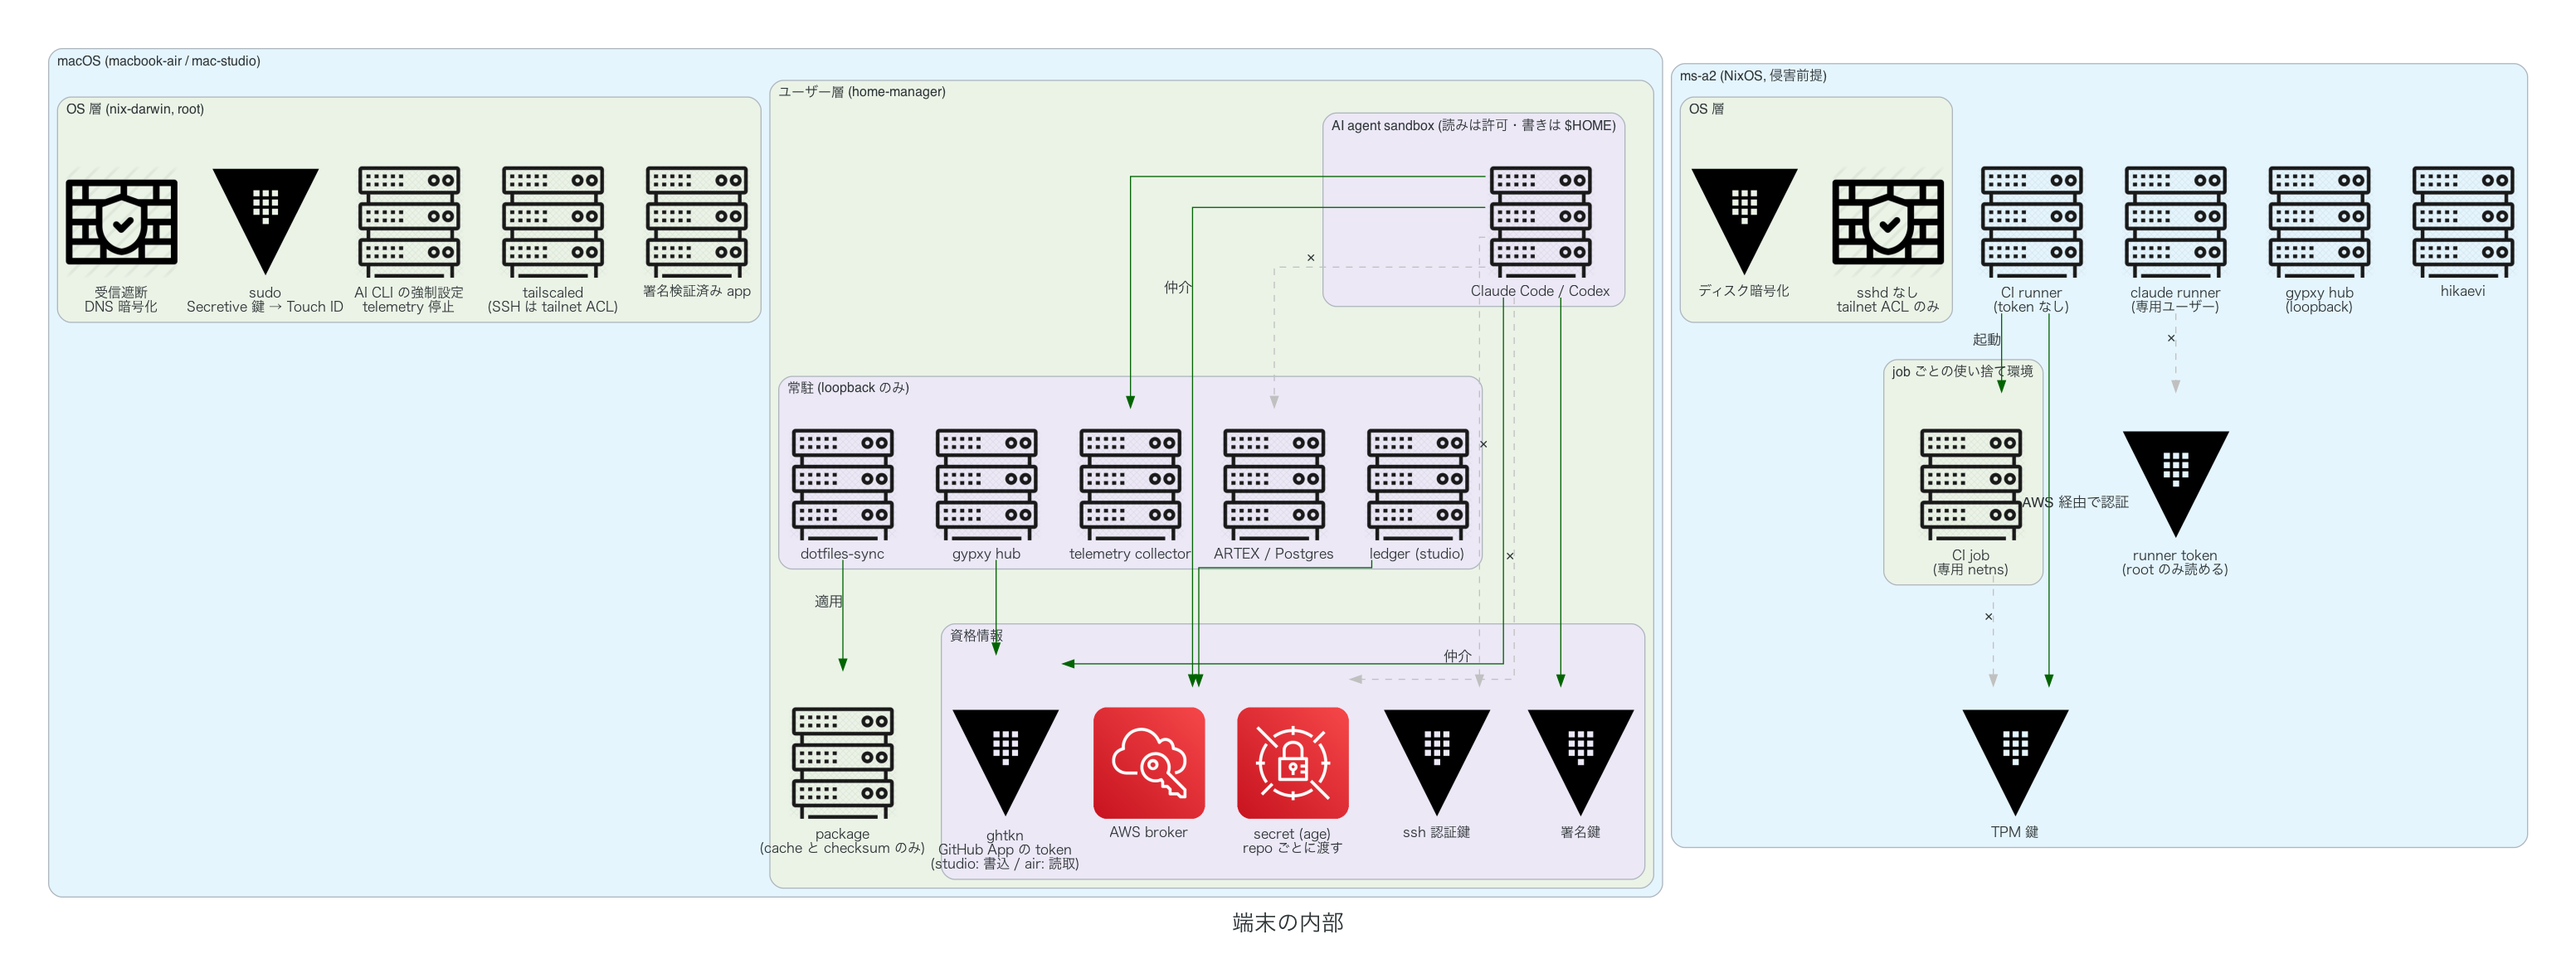
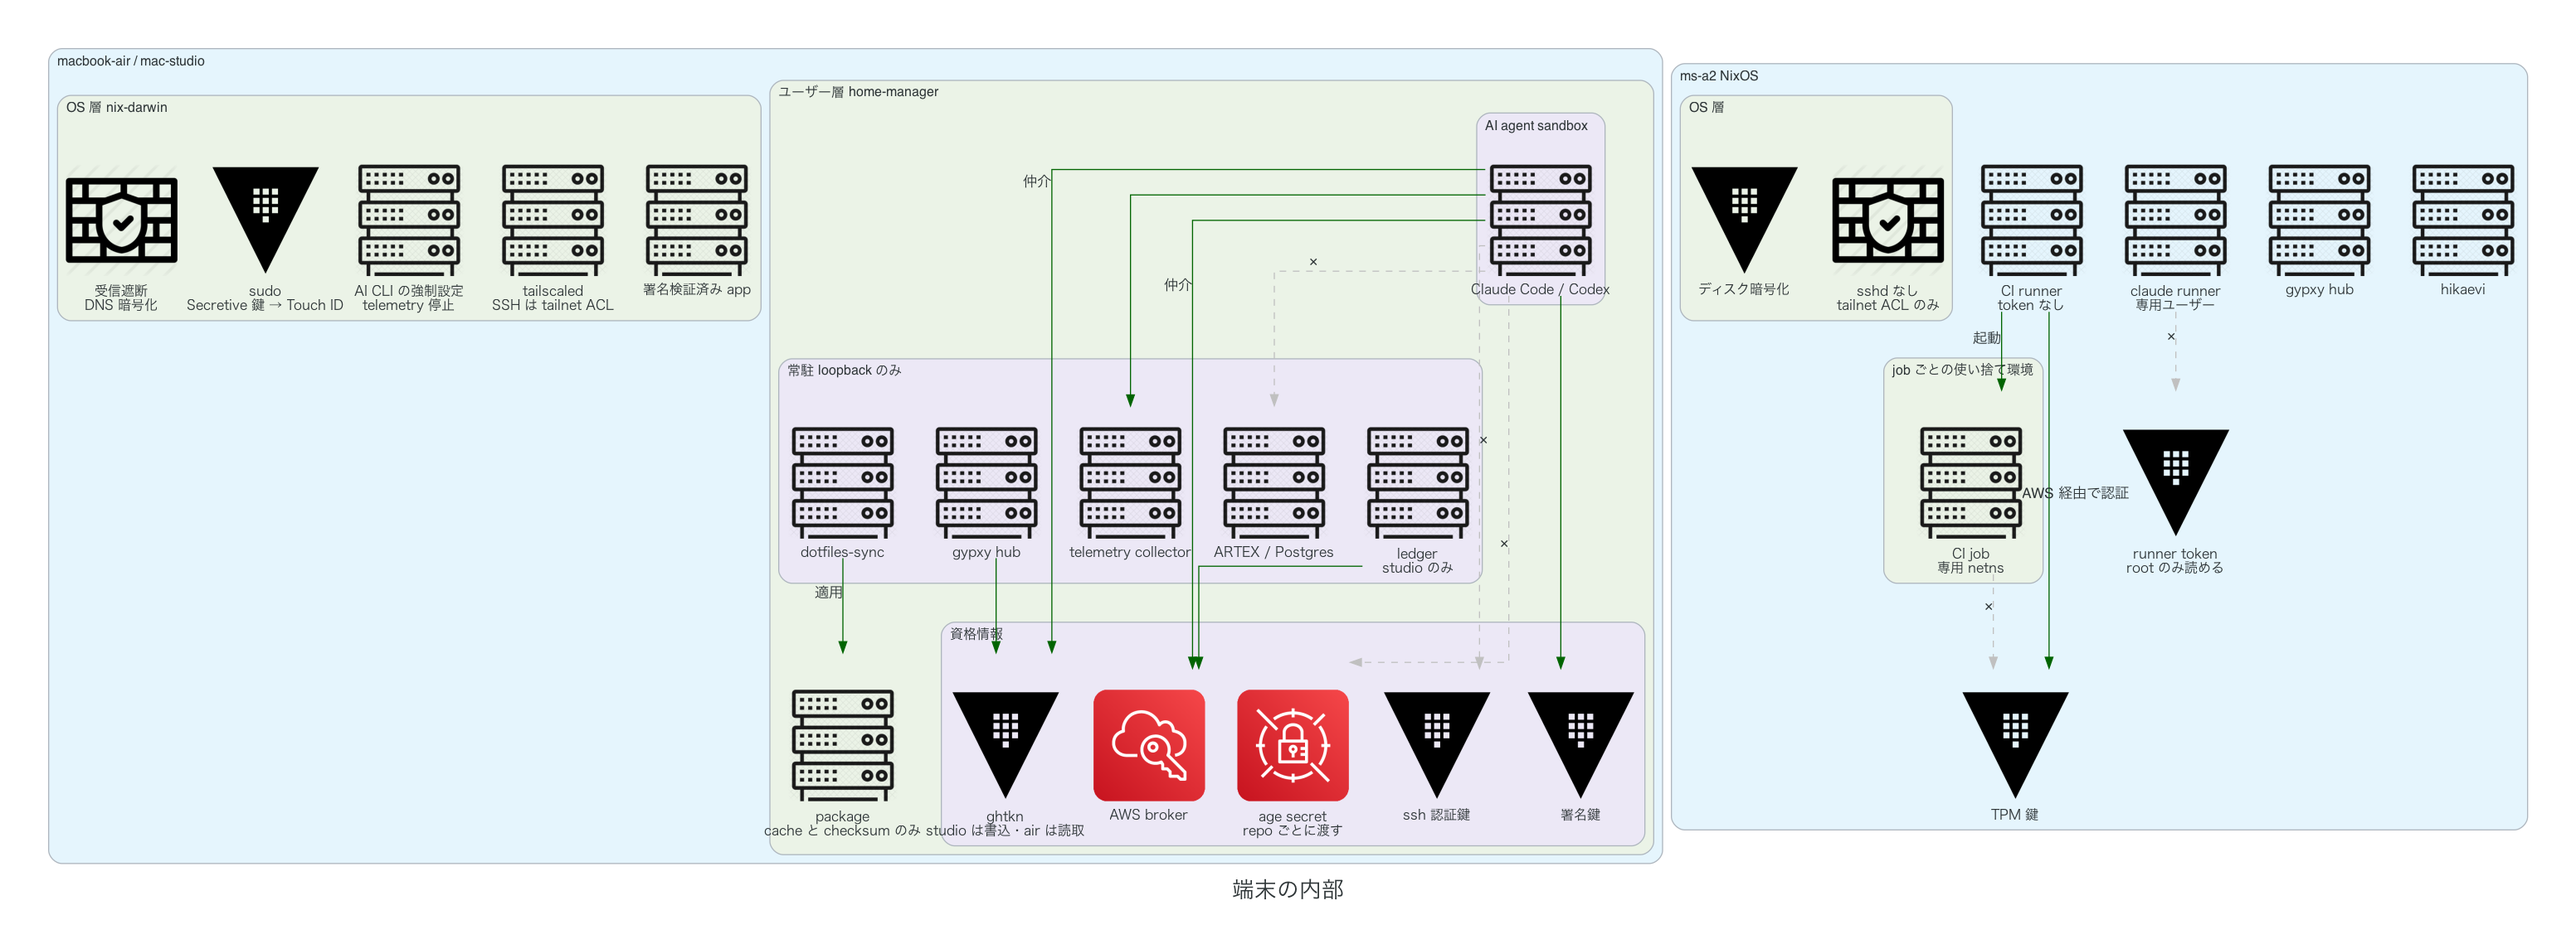
docs: ms-a2 を侵害前提と書かず、図のラベルから括弧書きを外す

diff --git a/docs/security/device_diagram.py b/docs/security/device_diagram.py
@@ -39,31 +39,31 @@ with Diagram(
     node_attr=node,
     edge_attr=edge,
 ):
-    with Cluster("macOS (macbook-air / mac-studio)"):
-        with Cluster("OS 層 (nix-darwin, root)"):
+    with Cluster("macbook-air / mac-studio"):
+        with Cluster("OS 層 nix-darwin"):
             fw = Firewall("受信遮断\nDNS 暗号化")
             sudo = Vault("sudo\nSecretive 鍵 → Touch ID")
             managed = Rack("AI CLI の強制設定\ntelemetry 停止")
-            tsd = Rack("tailscaled\n(SSH は tailnet ACL)")
+            tsd = Rack("tailscaled\nSSH は tailnet ACL")
             apps = Rack("署名検証済み app")
 
-        with Cluster("ユーザー層 (home-manager)"):
-            pkgs = Rack("package\n(cache と checksum のみ)")
-            with Cluster("常駐 (loopback のみ)"):
+        with Cluster("ユーザー層 home-manager"):
+            pkgs = Rack("package\ncache と checksum のみ")
+            with Cluster("常駐 loopback のみ"):
                 sync = Rack("dotfiles-sync")
                 hub = Rack("gypxy hub")
                 otel = Rack("telemetry collector")
                 artex = Rack("ARTEX / Postgres")
-                ledger = Rack("ledger (studio)")
+                ledger = Rack("ledger\nstudio のみ")
 
             with Cluster("資格情報"):
-                gh = Vault("ghtkn\nGitHub App の token\n(studio: 書込 / air: 読取)")
+                gh = Vault("ghtkn\nstudio は書込・air は読取")
                 aws = SingleSignOn("AWS broker")
-                age = SecretsManager("secret (age)\nrepo ごとに渡す")
+                age = SecretsManager("age secret\nrepo ごとに渡す")
                 auth = Vault("ssh 認証鍵")
                 sign = Vault("署名鍵")
 
-            with Cluster("AI agent sandbox (読みは許可・書きは $HOME)"):
+            with Cluster("AI agent sandbox"):
                 agent = Rack("Claude Code / Codex")
 
     agent >> Edge(color=ALLOW, xlabel="仲介") >> gh
@@ -76,17 +76,17 @@ with Diagram(
     sync >> Edge(color=ALLOW, xlabel="適用") >> pkgs
     hub >> Edge(color=ALLOW) >> gh
 
-    with Cluster("ms-a2 (NixOS, 侵害前提)"):
+    with Cluster("ms-a2 NixOS"):
         with Cluster("OS 層"):
             disk = Vault("ディスク暗号化")
             net = Firewall("sshd なし\ntailnet ACL のみ")
         with Cluster("job ごとの使い捨て環境"):
-            job = Rack("CI job\n(専用 netns)")
-        runner = Rack("CI runner\n(token なし)")
+            job = Rack("CI job\n専用 netns")
+        runner = Rack("CI runner\ntoken なし")
         tpm = Vault("TPM 鍵")
-        crunner = Rack("claude runner\n(専用ユーザー)")
-        cenv = Vault("runner token\n(root のみ読める)")
-        mhub = Rack("gypxy hub\n(loopback)")
+        crunner = Rack("claude runner\n専用ユーザー")
+        cenv = Vault("runner token\nroot のみ読める")
+        mhub = Rack("gypxy hub")
         hikaevi = Rack("hikaevi")
 
     runner >> Edge(color=ALLOW, xlabel="起動") >> job

diff --git a/docs/security/policy_diagram.py b/docs/security/policy_diagram.py
@@ -38,7 +38,7 @@ with Diagram(
     node_attr=node,
     edge_attr=edge,
 ):
-    with Cluster("tailnet (ACL: iac-tailscale)"):
+    with Cluster("tailnet"):
         with Cluster("信頼: 高"):
             with Cluster("macbook-air"):
                 human = User("人間")
@@ -49,8 +49,8 @@ with Diagram(
                 ledger = Rack("ledger")
                 broker = SingleSignOn("AWS 認証")
 
-        with Cluster("信頼: 低 (侵害前提)"):
-            with Cluster("ms-a2 (tag:untrusted-dev)"):
+        with Cluster("信頼: 低"):
+            with Cluster("ms-a2 tag:untrusted-dev"):
                 msa2 = Ubuntu("開発機\n認証情報なし")
                 hikaevi = Rack("hikaevi")
 
@@ -62,7 +62,7 @@ with Diagram(
         with Cluster("sisaku-security 034111987897"):
             sisaku = IAMRole("ReadOnly")
         with Cluster("device-fleet 607106784884"):
-            fleet = Organizations("Fleet (計画)\ntailnet 内からのみ")
+            fleet = Organizations("Fleet 計画中\ntailnet 内からのみ")
         with Cluster("lab-seccamp26d2 931932531320"):
             lab = IAMRole("apply")
 
@@ -85,7 +85,7 @@ with Diagram(
     admin >> Edge(color=ROOT) >> apply
     admin >> Edge(color=ROOT) >> lab
     broker >> Edge(color=ALLOW) >> sisaku
-    gh >> Edge(color=ALLOW, xlabel="配布 (CI + approve)") >> fleet
+    gh >> Edge(color=ALLOW, xlabel="配布 CI + approve") >> fleet
     fleet >> Edge(color=ROOT, style="bold", xlabel="管理") >> air
     fleet >> Edge(color=ROOT, style="bold", xlabel="管理") >> studio
 

diff --git a/docs/security/threat-model.md b/docs/security/threat-model.md
@@ -2,12 +2,12 @@
 
 ## 1. 信頼区分
 
-| 端末        | 役割                                                                | 持つ認証情報                                                                                              | 信頼                             |
-| ----------- | ------------------------------------------------------------------- | --------------------------------------------------------------------------------------------------------- | -------------------------------- |
-| macbook-air | シンクライアント。手元で操作する入口                                | Secure Enclave の sudo 鍵 (Secretive、署名ごとに Touch ID)。tailnet の利用者 identity                     | 高。ここが落ちると他も落ちる     |
-| mac-studio  | 認証情報を持つ開発機。自律 AI `ledger` が常駐                       | GitHub user token (ghtkn、8h)、AWS SSO、`~/.config/secrets/env.age` の secret、Claude / OpenAI の資格情報 | 高                               |
-| ms-a2       | 認証情報を持たない開発機。自律 AI `hikaevi`・CI job・実験を走らせる | 原則なし (例外は §4 F3)                                                                                   | 低。侵害されている前提で設計する |
-| AWS (Fleet) | 端末管理と dotfiles 配布の制御面                                    | Fleet admin、enroll secret、MDM の APNs 証明書                                                            | 高。全 Mac に root で書ける      |
+| 端末        | 役割                                                                | 持つ認証情報                                                                                              | 信頼                         |
+| ----------- | ------------------------------------------------------------------- | --------------------------------------------------------------------------------------------------------- | ---------------------------- |
+| macbook-air | シンクライアント。手元で操作する入口                                | Secure Enclave の sudo 鍵 (Secretive、署名ごとに Touch ID)。tailnet の利用者 identity                     | 高。ここが落ちると他も落ちる |
+| mac-studio  | 認証情報を持つ開発機。自律 AI `ledger` が常駐                       | GitHub user token (ghtkn、8h)、AWS SSO、`~/.config/secrets/env.age` の secret、Claude / OpenAI の資格情報 | 高                           |
+| ms-a2       | 認証情報を持たない開発機。自律 AI `hikaevi`・CI job・実験を走らせる | 原則なし (例外は §4 F3)                                                                                   | 低                           |
+| AWS (Fleet) | 端末管理と dotfiles 配布の制御面                                    | Fleet admin、enroll secret、MDM の APNs 証明書                                                            | 高。全 Mac に root で書ける  |
 
 **不変条件:** 信頼の低い区分から高い区分へは、書き込みもコード実行もさせない。ms-a2 から mac-studio・macbook-air・AWS の制御面へ向かう経路は、読み取りも含めて最小にする。
 
@@ -22,7 +22,7 @@ flowchart LR
   subgraph cloud["AWS device-fleet アカウント (制御面)"]
     fleet["Fleet server<br/>+ controller"]
   end
-  subgraph low["信頼: 低 (侵害前提)"]
+  subgraph low["信頼: 低"]
     msa2["ms-a2<br/>認証情報なし開発機<br/>AI agent / CI job"]
   end
   gh[("GitHub<br/>dotfiles main / deploy")]

diff --git a/docs/operations.md b/docs/operations.md
@@ -188,7 +188,7 @@ grep -E 'pam_tid|pam_reattach' /etc/pam.d/sudo_local
 
 ### 3.1.1 リモート sudo を手元 Mac の Touch ID で通す
 
-mac-studio の sudo は、macbook-air の Secure Enclave にある鍵で署名して通す。ms-a2 には鍵を転送せず、sudo はパスワードで通す (侵害前提の host に署名を要求させないため。`docs/security/threat-model.md` F1)。署名のたびに macbook-air で Touch ID を求める。
+mac-studio の sudo は、macbook-air の Secure Enclave にある鍵で署名して通す。ms-a2 には鍵を転送せず、sudo はパスワードで通す (信頼の低い host に署名を要求させないため。`docs/security/threat-model.md` F1)。署名のたびに macbook-air で Touch ID を求める。
 
 | 層                 | 設定                                                                   | module                                                       |
 | ------------------ | ---------------------------------------------------------------------- | ------------------------------------------------------------ |
